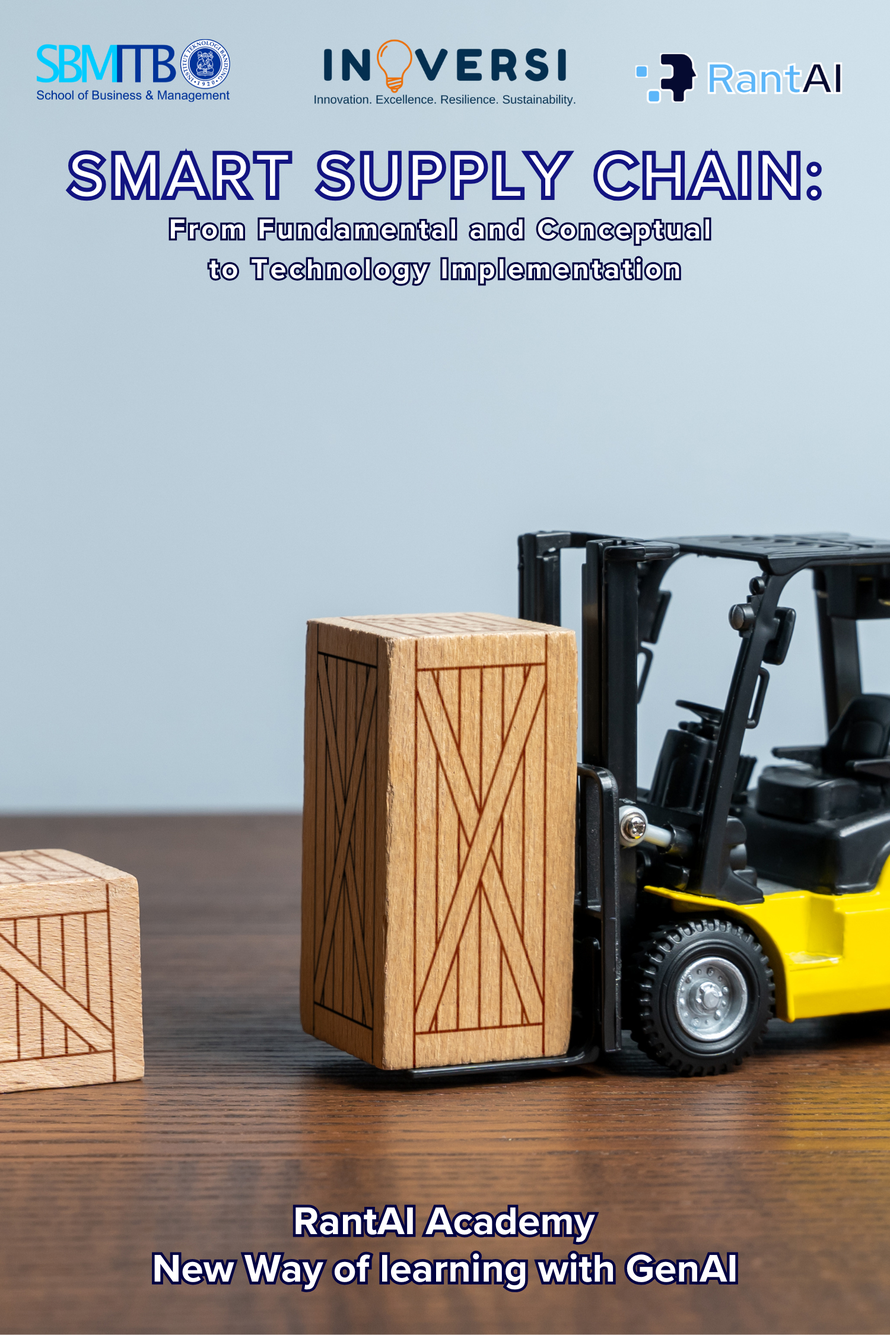
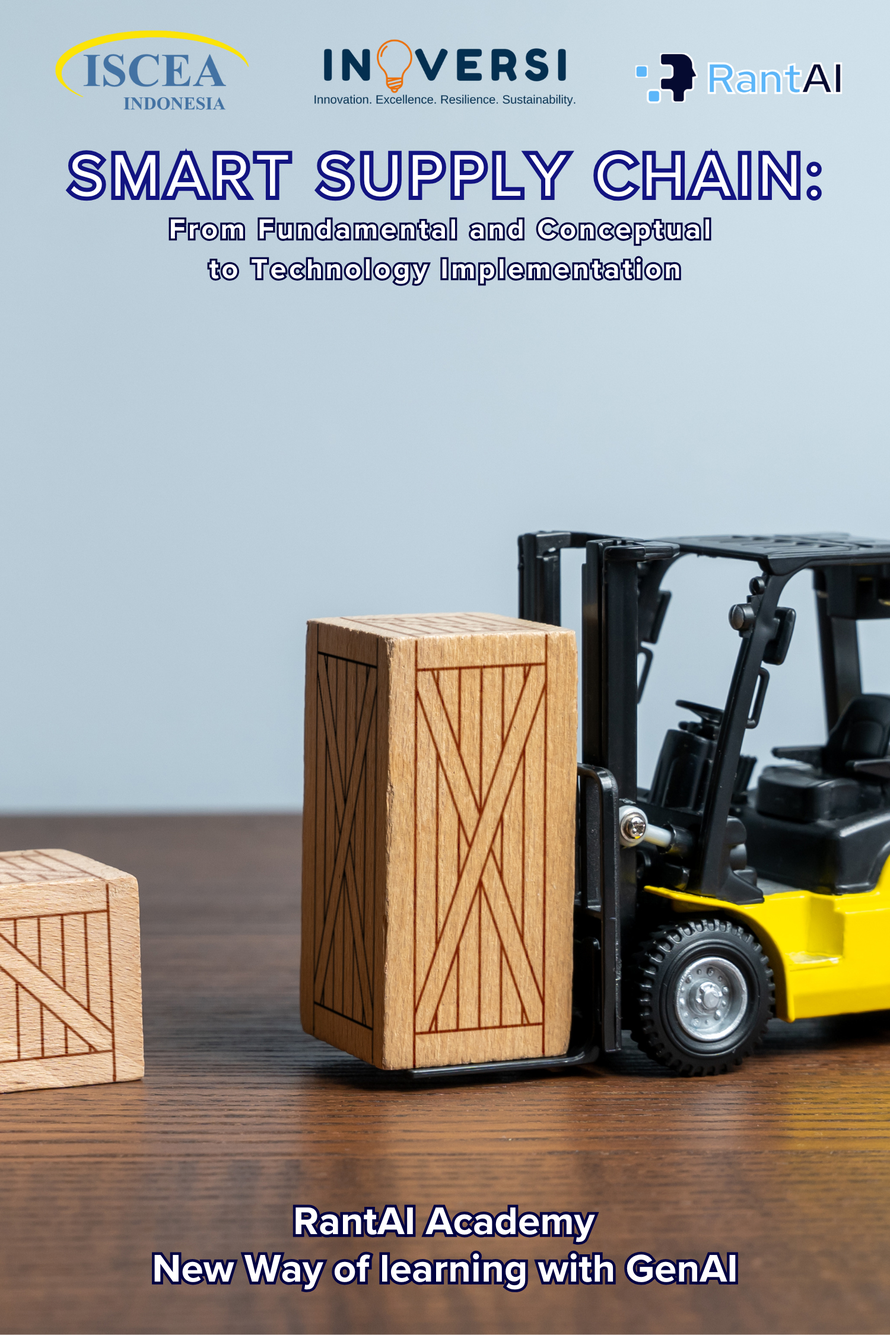
Update Partner

Changed region(s): [[0.0307, 0.0, 0.276, 0.0933]]

diff --git a/content/docs/smart-scm.md b/content/docs/smart-scm.md
@@ -100,12 +100,12 @@ toc: true
         <div class="card p-4 text-center collaboration-card">
             <h4 class="mb-3" style="color: #FF5722;">OUR PARTNERS 🤝</h4>
             <p class="card-text text-center">
-                We are honored to collaborate with SBM ITB and Inoversi in the creation of this book. This partnership combines academic excellence with industry expertise to provide a resource that is both theoretically robust and practically applicable.
+                We are honored to collaborate with ISCEA and Inoversi in the creation of this book. This partnership combines academic excellence with industry expertise to provide a resource that is both theoretically robust and practically applicable.
             </p>
             <div class="d-flex justify-content-center mb-3 flex-wrap">
-                <a href="https://www.sbm-itb.ac.id/" target="_blank" class="btn btn-lg btn-outline-collaboration m-2 collaboration-btn">
-                    <img src="/images/sbm-logo.png" alt="SBM ITB Logo" class="collaboration-logo-image">
-                    <span class="collaboration-btn-text">SBM ITB</span>
+                <a href="https://isceaindonesia.com/" target="_blank" class="btn btn-lg btn-outline-collaboration m-2 collaboration-btn">
+                    <img src="/images/iscea_logo.png" alt="ISCEA Logo" class="collaboration-logo-image">
+                    <span class="collaboration-btn-text">ISCEA</span>
                 </a>
                 <a href="https:/inoversi.id/" target="_blank" class="btn btn-lg btn-outline-collaboration m-2 collaboration-btn">
                     <img src="/images/inoversi-logo.png" alt="Inoversi Logo" class="collaboration-logo-image">
@@ -257,7 +257,7 @@ RantAI is a forward-thinking Indonesian tech startup focused on revolutionizing 
 </p>
 
 <p style="text-align: justify;">
-Currently collaborating with institutions like SBM ITB (School of Business and Management ITB) and Inoversi, RantAI is positioned at the intersection of technology and business transformation. Inoversi, founded in 2024, is a premier training organization dedicated to fostering innovation in business. It offers a wide range of services, including interactive webinars, high-quality e-books, and e-learning platforms that enhance the learning experience for professionals. With customized training, public workshops, and expert-led consulting services, Inoversi aims to empower businesses with the knowledge and tools needed to thrive in today’s competitive landscape.
+Currently collaborating with institutions like ISCEA and Inoversi, RantAI is positioned at the intersection of technology and business transformation. Inoversi, founded in 2024, is a premier training organization dedicated to fostering innovation in business. It offers a wide range of services, including interactive webinars, high-quality e-books, and e-learning platforms that enhance the learning experience for professionals. With customized training, public workshops, and expert-led consulting services, Inoversi aims to empower businesses with the knowledge and tools needed to thrive in today’s competitive landscape.
 </p>
 
 <p style="text-align: justify;">
